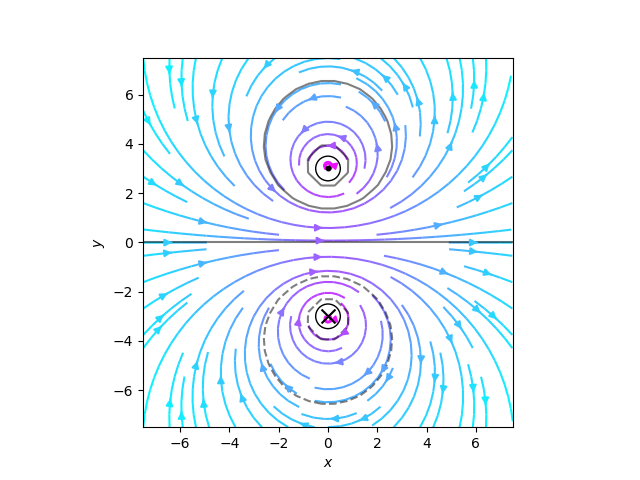
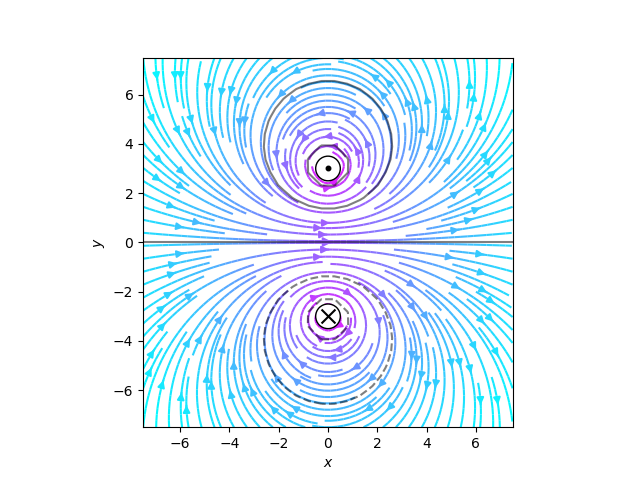
EBFieldSolver

Changed region(s): [[0.2188, 0.125, 0.8125, 0.9062]]

diff --git a/src/StaticField.py b/src/StaticField.py
@@ -55,7 +55,7 @@ if __name__ == "__main__":
     grad_phix, grad_phiy, grad_phiz = util.total_diff(xx, yy, zz, charges, f='phi_field', nabla='gradient')
     grad_phi_norm = np.hypot(grad_phix, grad_phiy)
 
-    plt.streamplot(xx, yy, -grad_phix, -grad_phiy, color=np.log(grad_phi_norm), cmap='cool')
+    plt.streamplot(xx, yy, -grad_phix, -grad_phiy, color=np.log(grad_phi_norm), cmap='cool', density=2)
     plt.contour(xx, yy, phi, phi_levels, colors='k', alpha=0.5)
     util.forms(charges)
     anim.window()
@@ -66,7 +66,7 @@ if __name__ == "__main__":
     rot_Ax, rot_Ay, rot_Az = util.total_diff(xx, yy, zz, conductors, f='A_field', nabla='curl')
     rot_A_norm = np.hypot(rot_Ax, rot_Ay)
 
-    plt.streamplot(xx, yy, rot_Ax, rot_Ay, color=np.log(rot_A_norm), cmap='cool')
+    plt.streamplot(xx, yy, rot_Ax, rot_Ay, color=np.log(rot_A_norm), cmap='cool', zorder=1, density=2)
     plt.contour(xx, yy, A, A_levels, colors='k', alpha=0.5)
     util.forms(conductors)
     util.details(conductors)
